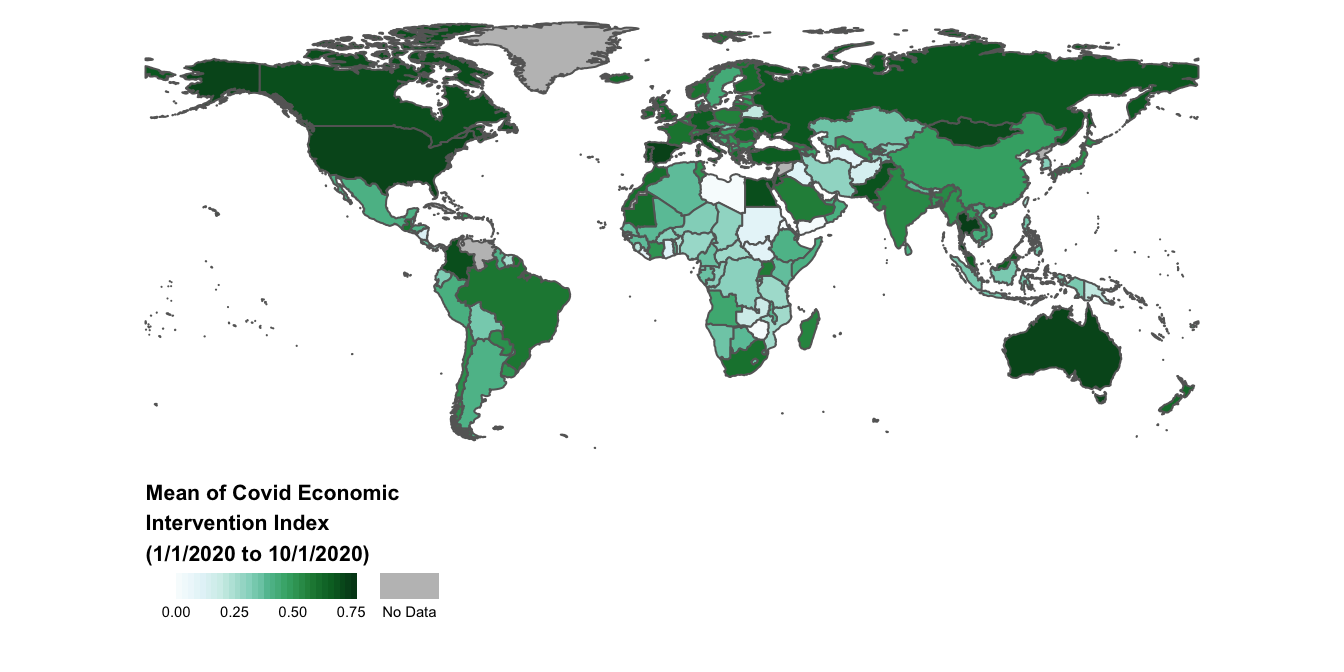
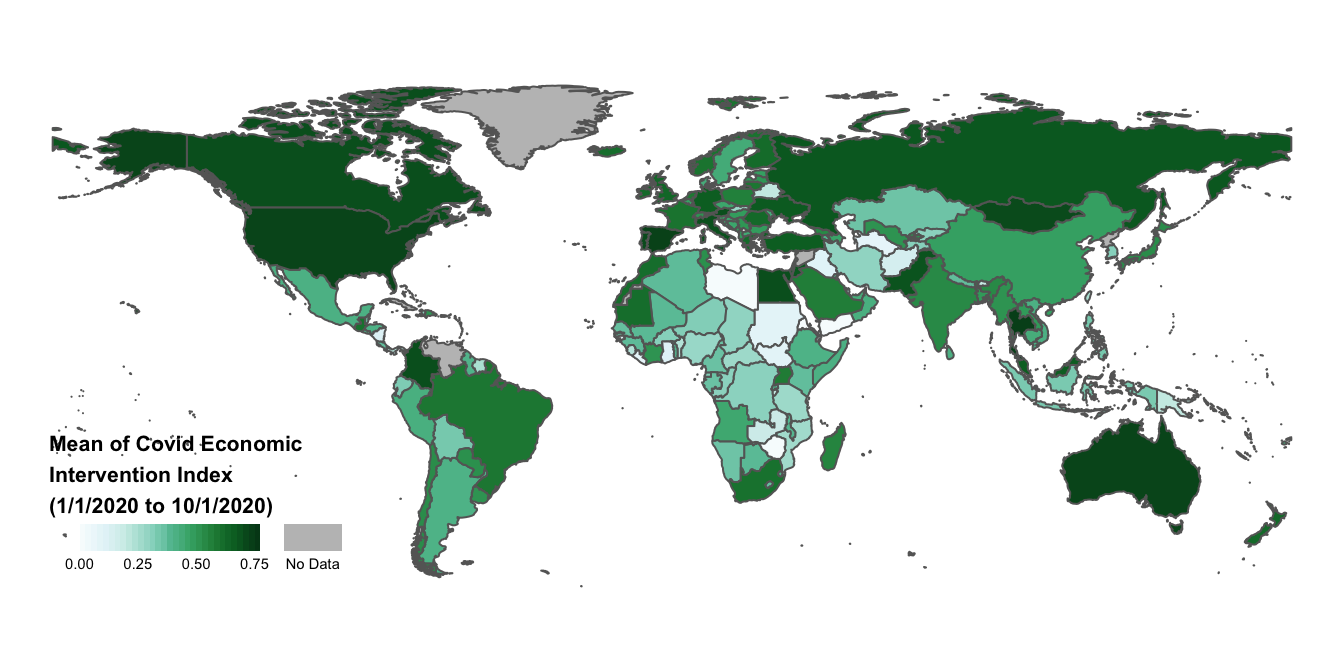
adds summary code

diff --git a/docs/tutorial.html b/docs/tutorial.html
@@ -176,8 +176,7 @@ code span.wa { color: #60a0b0; font-weight: bold; font-style: italic; } /* Warni
 <ul>
 <li class="chapter" data-level="4.5.1" data-path="tutorial.html"><a href="tutorial.html#make-a-preliminary-map"><i class="fa fa-check"></i><b>4.5.1</b> Make a Preliminary Map</a></li>
 <li class="chapter" data-level="4.5.2" data-path="tutorial.html"><a href="tutorial.html#customize-legend"><i class="fa fa-check"></i><b>4.5.2</b> Customize Legend</a></li>
-<li class="chapter" data-level="4.5.3" data-path="tutorial.html"><a href="tutorial.html#add-map-title"><i class="fa fa-check"></i><b>4.5.3</b> Add Map Title</a></li>
-<li class="chapter" data-level="4.5.4" data-path="tutorial.html"><a href="tutorial.html#add-map-credits"><i class="fa fa-check"></i><b>4.5.4</b> Add Map Credits</a></li>
+<li class="chapter" data-level="4.5.3" data-path="tutorial.html"><a href="tutorial.html#add-map-title-and-credits"><i class="fa fa-check"></i><b>4.5.3</b> Add Map Title and Credits</a></li>
 </ul></li>
 <li class="chapter" data-level="4.6" data-path="tutorial.html"><a href="tutorial.html#export-your-map"><i class="fa fa-check"></i><b>4.6</b> Export Your Map</a></li>
 <li class="chapter" data-level="4.7" data-path="tutorial.html"><a href="tutorial.html#make-a-web-map"><i class="fa fa-check"></i><b>4.7</b> Make a Web Map</a></li>
@@ -489,13 +488,20 @@ The <code>tm_polygons</code> function can take a variety of arguments that can h
 </ul>
 <p>The following code incorporates these changes into the previous map:</p>
 <div class="sourceCode" id="cb41"><pre class="sourceCode r"><code class="sourceCode r"><span id="cb41-1"><a href="tutorial.html#cb41-1" aria-hidden="true" tabindex="-1"></a>covid_economic_map<span class="ot">&lt;-</span> <span class="fu">tm_shape</span>(worldmap_covid_data_economic)<span class="sc">+</span></span>
-<span id="cb41-2"><a href="tutorial.html#cb41-2" aria-hidden="true" tabindex="-1"></a>                      <span class="fu">tm_polygons</span>(<span class="at">col=</span><span class="st">&quot;mean_economic&quot;</span>, <span class="at">style=</span><span class="st">&quot;cont&quot;</span>, <span class="at">palette=</span><span class="st">&quot;BuGn&quot;</span>, <span class="at">textNA=</span><span class="st">&quot;No Data&quot;</span>, </span>
-<span id="cb41-3"><a href="tutorial.html#cb41-3" aria-hidden="true" tabindex="-1"></a>                                  <span class="at">title=</span><span class="st">&quot;Mean of Covid Economic</span><span class="sc">\n</span><span class="st">Intervention Index</span><span class="sc">\n</span><span class="st">(1/1/2020 to 10/1/2020)&quot;</span>, </span>
-<span id="cb41-4"><a href="tutorial.html#cb41-4" aria-hidden="true" tabindex="-1"></a>                                  <span class="at">legend.is.portrait=</span><span class="cn">FALSE</span>,<span class="at">breaks=</span><span class="fu">c</span>(<span class="dv">0</span>,<span class="fl">0.25</span>,<span class="fl">0.5</span>, <span class="fl">0.75</span>))<span class="sc">+</span></span>
-<span id="cb41-5"><a href="tutorial.html#cb41-5" aria-hidden="true" tabindex="-1"></a>                      <span class="fu">tm_layout</span>(<span class="at">legend.title.size=</span><span class="fl">0.8</span>, <span class="at">legend.title.fontface=</span><span class="dv">2</span>,<span class="at">legend.outside=</span><span class="cn">TRUE</span>, </span>
-<span id="cb41-6"><a href="tutorial.html#cb41-6" aria-hidden="true" tabindex="-1"></a>                                <span class="at">legend.outside.position =</span> <span class="fu">c</span>(<span class="st">&quot;bottom&quot;</span>), <span class="at">frame=</span><span class="cn">FALSE</span>, <span class="at">legend.text.size =</span> <span class="fl">0.5</span>,</span>
-<span id="cb41-7"><a href="tutorial.html#cb41-7" aria-hidden="true" tabindex="-1"></a>                                <span class="at">legend.hist.size =</span> <span class="fl">0.5</span>)</span>
-<span id="cb41-8"><a href="tutorial.html#cb41-8" aria-hidden="true" tabindex="-1"></a>covid_economic_map</span></code></pre></div>
+<span id="cb41-2"><a href="tutorial.html#cb41-2" aria-hidden="true" tabindex="-1"></a>                      <span class="fu">tm_polygons</span>(<span class="at">col=</span><span class="st">&quot;mean_economic&quot;</span>, </span>
+<span id="cb41-3"><a href="tutorial.html#cb41-3" aria-hidden="true" tabindex="-1"></a>                                  <span class="at">style=</span><span class="st">&quot;cont&quot;</span>, </span>
+<span id="cb41-4"><a href="tutorial.html#cb41-4" aria-hidden="true" tabindex="-1"></a>                                  <span class="at">palette=</span><span class="st">&quot;BuGn&quot;</span>, </span>
+<span id="cb41-5"><a href="tutorial.html#cb41-5" aria-hidden="true" tabindex="-1"></a>                                  <span class="at">textNA=</span><span class="st">&quot;No Data&quot;</span>, </span>
+<span id="cb41-6"><a href="tutorial.html#cb41-6" aria-hidden="true" tabindex="-1"></a>                                  <span class="at">title=</span><span class="st">&quot;Mean of Covid Economic</span><span class="sc">\n</span><span class="st">Intervention Index</span><span class="sc">\n</span><span class="st">(1/1/2020 to 10/1/2020)&quot;</span>, </span>
+<span id="cb41-7"><a href="tutorial.html#cb41-7" aria-hidden="true" tabindex="-1"></a>                                  <span class="at">legend.is.portrait=</span><span class="cn">FALSE</span>,</span>
+<span id="cb41-8"><a href="tutorial.html#cb41-8" aria-hidden="true" tabindex="-1"></a>                                  <span class="at">breaks=</span><span class="fu">c</span>(<span class="dv">0</span>,<span class="fl">0.25</span>,<span class="fl">0.5</span>, <span class="fl">0.75</span>))<span class="sc">+</span></span>
+<span id="cb41-9"><a href="tutorial.html#cb41-9" aria-hidden="true" tabindex="-1"></a>                      <span class="fu">tm_layout</span>(<span class="at">legend.title.size=</span><span class="fl">0.8</span>, </span>
+<span id="cb41-10"><a href="tutorial.html#cb41-10" aria-hidden="true" tabindex="-1"></a>                                <span class="at">legend.title.fontface=</span><span class="dv">2</span>,</span>
+<span id="cb41-11"><a href="tutorial.html#cb41-11" aria-hidden="true" tabindex="-1"></a>                                <span class="at">legend.position =</span> <span class="fu">c</span>(<span class="st">&quot;left&quot;</span>, <span class="st">&quot;bottom&quot;</span>), </span>
+<span id="cb41-12"><a href="tutorial.html#cb41-12" aria-hidden="true" tabindex="-1"></a>                                <span class="at">frame=</span><span class="cn">FALSE</span>, </span>
+<span id="cb41-13"><a href="tutorial.html#cb41-13" aria-hidden="true" tabindex="-1"></a>                                <span class="at">legend.text.size =</span> <span class="fl">0.5</span>,</span>
+<span id="cb41-14"><a href="tutorial.html#cb41-14" aria-hidden="true" tabindex="-1"></a>                                <span class="at">legend.hist.size =</span> <span class="fl">0.5</span>)</span>
+<span id="cb41-15"><a href="tutorial.html#cb41-15" aria-hidden="true" tabindex="-1"></a>covid_economic_map</span></code></pre></div>
 <p><img src="bookdownproj_files/figure-html/unnamed-chunk-50-1.png" width="672" /></p>
 <p>Let’s unpack this code; for the sake of completeness, we’ll go over all of the functions and arguments, rather than just the code that implements the changes mentioned above.</p>
 <p>Above, to the right of the assignment operator, we have:</p>
@@ -515,26 +521,50 @@ The <code>tm_polygons</code> function can take a variety of arguments that can h
 <ul>
 <li><code>legend.title.size=0.8</code> sets the size of the text in the legend’s title</li>
 <li><code>legend.title.fontface=2</code> makes the legend title bold.</li>
-<li><code>legend.outside=True</code> situates the legend outside the map frame. Because the map frame is invisible (since we set <code>legend.outside=TRUE</code>), the practical effect of this is to shift the legend outside the map area. In particular, it shifts it below the map area because of the <code>legend.outside.position = c("bottom")</code> argument.</li>
+<li><code>legend.position = c("left", "bottom")</code> positions the legend at the bottom-left of the map</li>
+<li><code>frame=FALSE</code> removes the frame from the map</li>
 <li><code>legend.text.size=0.5</code> specifies the size of the legend text that is not part of the legend title</li>
 <li><code>legend.hist.size=0.5</code> specifies the size of the graphical part of the legend</li>
 </ul></li>
 </ul>
 <p>The best way to get a sense of how all of these various arguments work is to try changing the values of the arguments and inspect their effect on the map’s appearance.</p>
 </div>
-<div id="add-map-title" class="section level3" number="4.5.3">
-<h3><span class="header-section-number">4.5.3</span> Add Map Title</h3>
-<p>One useful thing to keep in mind is that when adding new elements to our map, it’s not necessary to retype all of our code; thus far, that is what we’ve been doing, but it’s also possible to simply append changes to the existing object. Below, to the right of the assignment operator, we first print the name of the object we want to modify (i.e. “covid_economic_map”) and then type a “+” sign; then, we can modify the object as desired. In particular, we want to add a map title, which we will do by passing</p>
+<div id="add-map-title-and-credits" class="section level3" number="4.5.3">
+<h3><span class="header-section-number">4.5.3</span> Add Map Title and Credits</h3>
+<p>One useful thing to keep in mind is that when adding new elements to our map, it’s not necessary to retype all of our code; thus far, that is what we’ve been doing, but it’s also possible to simply append changes to the existing object. Below, to the right of the assignment operator, we first print the name of the object we want to modify (i.e. “covid_economic_map”) and then type a “+” sign; then, we can modify the object as desired. In particular, we want to add and customize a map title (which we will do by passing a few additional arguments through the now familiar <code>tm_layout</code> function), as well as add and customize a “Map Credits” section, which will include some basic map metadata.</p>
 <div class="sourceCode" id="cb42"><pre class="sourceCode r"><code class="sourceCode r"><span id="cb42-1"><a href="tutorial.html#cb42-1" aria-hidden="true" tabindex="-1"></a>covid_economic_map<span class="ot">&lt;-</span>covid_economic_map<span class="sc">+</span></span>
 <span id="cb42-2"><a href="tutorial.html#cb42-2" aria-hidden="true" tabindex="-1"></a>                       <span class="fu">tm_layout</span>(<span class="at">main.title=</span><span class="st">&quot;National Economic Support Measures</span><span class="sc">\n</span><span class="st">in Response to the Covid-19 Pandemic&quot;</span>, </span>
-<span id="cb42-3"><a href="tutorial.html#cb42-3" aria-hidden="true" tabindex="-1"></a>                                 <span class="at">main.title.position=</span><span class="st">&quot;center&quot;</span>, <span class="at">attr.outside=</span><span class="cn">TRUE</span>,</span>
-<span id="cb42-4"><a href="tutorial.html#cb42-4" aria-hidden="true" tabindex="-1"></a>                                 <span class="at">main.title.size=</span><span class="dv">1</span>, <span class="at">inner.margins=</span><span class="fu">c</span>(<span class="fl">0.06</span>,<span class="fl">0.10</span>,<span class="fl">0.10</span>,<span class="fl">0.08</span>))</span>
-<span id="cb42-5"><a href="tutorial.html#cb42-5" aria-hidden="true" tabindex="-1"></a>covid_economic_map </span></code></pre></div>
-<p><img src="bookdownproj_files/figure-html/unnamed-chunk-51-1.png" width="672" /></p>
-<p>covid_economic_map&lt;-covid_economic_map+</p>
-</div>
-<div id="add-map-credits" class="section level3" number="4.5.4">
-<h3><span class="header-section-number">4.5.4</span> Add Map Credits</h3>
+<span id="cb42-3"><a href="tutorial.html#cb42-3" aria-hidden="true" tabindex="-1"></a>                                 <span class="at">main.title.position=</span><span class="st">&quot;center&quot;</span>,</span>
+<span id="cb42-4"><a href="tutorial.html#cb42-4" aria-hidden="true" tabindex="-1"></a>                                 <span class="at">main.title.size=</span><span class="dv">1</span>, <span class="at">inner.margins=</span><span class="fu">c</span>(<span class="fl">0.06</span>,<span class="fl">0.10</span>,<span class="fl">0.10</span>,<span class="fl">0.08</span>), </span>
+<span id="cb42-5"><a href="tutorial.html#cb42-5" aria-hidden="true" tabindex="-1"></a>                                 <span class="at">attr.outside =</span> <span class="cn">TRUE</span>)<span class="sc">+</span></span>
+<span id="cb42-6"><a href="tutorial.html#cb42-6" aria-hidden="true" tabindex="-1"></a>                        <span class="fu">tm_credits</span>(<span class="st">&quot;Author: Aditya Ranganath</span><span class="sc">\n</span><span class="st">CRS: WGS1984</span><span class="sc">\n</span><span class="st">Source: ICPSR (https://doi.org/10.3886/E119061V6)&quot;</span>, </span>
+<span id="cb42-7"><a href="tutorial.html#cb42-7" aria-hidden="true" tabindex="-1"></a>                                   <span class="at">position=</span><span class="fu">c</span>(<span class="fl">0.78</span>,<span class="fl">0.01</span>), <span class="at">size=</span><span class="fl">0.5</span>)</span>
+<span id="cb42-8"><a href="tutorial.html#cb42-8" aria-hidden="true" tabindex="-1"></a>  </span>
+<span id="cb42-9"><a href="tutorial.html#cb42-9" aria-hidden="true" tabindex="-1"></a>covid_economic_map </span></code></pre></div>
+<p><img src="bookdownproj_files/figure-html/unnamed-chunk-51-1.png" width="864" /></p>
+<div class="sourceCode" id="cb43"><pre class="sourceCode r"><code class="sourceCode r"><span id="cb43-1"><a href="tutorial.html#cb43-1" aria-hidden="true" tabindex="-1"></a>covid_economic_map<span class="ot">&lt;-</span> <span class="fu">tm_shape</span>(worldmap_covid_data_economic)<span class="sc">+</span></span>
+<span id="cb43-2"><a href="tutorial.html#cb43-2" aria-hidden="true" tabindex="-1"></a>                      <span class="fu">tm_polygons</span>(<span class="at">col=</span><span class="st">&quot;mean_economic&quot;</span>, </span>
+<span id="cb43-3"><a href="tutorial.html#cb43-3" aria-hidden="true" tabindex="-1"></a>                                  <span class="at">style=</span><span class="st">&quot;cont&quot;</span>, </span>
+<span id="cb43-4"><a href="tutorial.html#cb43-4" aria-hidden="true" tabindex="-1"></a>                                  <span class="at">palette=</span><span class="st">&quot;BuGn&quot;</span>, </span>
+<span id="cb43-5"><a href="tutorial.html#cb43-5" aria-hidden="true" tabindex="-1"></a>                                  <span class="at">textNA=</span><span class="st">&quot;No Data&quot;</span>, </span>
+<span id="cb43-6"><a href="tutorial.html#cb43-6" aria-hidden="true" tabindex="-1"></a>                                  <span class="at">title=</span><span class="st">&quot;Mean of Covid Economic</span><span class="sc">\n</span><span class="st">Intervention Index</span><span class="sc">\n</span><span class="st">(1/1/2020 to 10/1/2020)&quot;</span>, </span>
+<span id="cb43-7"><a href="tutorial.html#cb43-7" aria-hidden="true" tabindex="-1"></a>                                  <span class="at">legend.is.portrait=</span><span class="cn">FALSE</span>,</span>
+<span id="cb43-8"><a href="tutorial.html#cb43-8" aria-hidden="true" tabindex="-1"></a>                                  <span class="at">breaks=</span><span class="fu">c</span>(<span class="dv">0</span>,<span class="fl">0.25</span>,<span class="fl">0.5</span>, <span class="fl">0.75</span>))<span class="sc">+</span></span>
+<span id="cb43-9"><a href="tutorial.html#cb43-9" aria-hidden="true" tabindex="-1"></a>                        <span class="fu">tm_layout</span>(<span class="at">legend.title.size=</span><span class="fl">0.8</span>, </span>
+<span id="cb43-10"><a href="tutorial.html#cb43-10" aria-hidden="true" tabindex="-1"></a>                                  <span class="at">legend.title.fontface=</span><span class="dv">2</span>,</span>
+<span id="cb43-11"><a href="tutorial.html#cb43-11" aria-hidden="true" tabindex="-1"></a>                                  <span class="at">legend.position =</span> <span class="fu">c</span>(<span class="st">&quot;left&quot;</span>, <span class="st">&quot;bottom&quot;</span>), </span>
+<span id="cb43-12"><a href="tutorial.html#cb43-12" aria-hidden="true" tabindex="-1"></a>                                  <span class="at">frame=</span><span class="cn">FALSE</span>, </span>
+<span id="cb43-13"><a href="tutorial.html#cb43-13" aria-hidden="true" tabindex="-1"></a>                                  <span class="at">legend.text.size =</span> <span class="fl">0.5</span>,</span>
+<span id="cb43-14"><a href="tutorial.html#cb43-14" aria-hidden="true" tabindex="-1"></a>                                  <span class="at">legend.hist.size =</span> <span class="fl">0.5</span>,</span>
+<span id="cb43-15"><a href="tutorial.html#cb43-15" aria-hidden="true" tabindex="-1"></a>                                  <span class="at">main.title=</span><span class="st">&quot;National Economic Support Measures</span><span class="sc">\n</span><span class="st">in Response to the Covid-19 Pandemic&quot;</span>, </span>
+<span id="cb43-16"><a href="tutorial.html#cb43-16" aria-hidden="true" tabindex="-1"></a>                                 <span class="at">main.title.position=</span><span class="st">&quot;center&quot;</span>,</span>
+<span id="cb43-17"><a href="tutorial.html#cb43-17" aria-hidden="true" tabindex="-1"></a>                                 <span class="at">main.title.size=</span><span class="dv">1</span>, <span class="at">inner.margins=</span><span class="fu">c</span>(<span class="fl">0.06</span>,<span class="fl">0.10</span>,<span class="fl">0.10</span>,<span class="fl">0.08</span>), </span>
+<span id="cb43-18"><a href="tutorial.html#cb43-18" aria-hidden="true" tabindex="-1"></a>                                 <span class="at">attr.outside =</span> <span class="cn">TRUE</span>)<span class="sc">+</span></span>
+<span id="cb43-19"><a href="tutorial.html#cb43-19" aria-hidden="true" tabindex="-1"></a>                    <span class="fu">tm_credits</span>(<span class="st">&quot;Author: Aditya Ranganath</span><span class="sc">\n</span><span class="st">CRS: WGS1984</span><span class="sc">\n</span><span class="st">Source: ICPSR (https://doi.org/10.3886/E119061V6)&quot;</span>, </span>
+<span id="cb43-20"><a href="tutorial.html#cb43-20" aria-hidden="true" tabindex="-1"></a>                                 <span class="at">position=</span><span class="fu">c</span>(<span class="fl">0.78</span>,<span class="fl">0.01</span>), </span>
+<span id="cb43-21"><a href="tutorial.html#cb43-21" aria-hidden="true" tabindex="-1"></a>                                 <span class="at">size=</span><span class="fl">0.5</span>)</span>
+<span id="cb43-22"><a href="tutorial.html#cb43-22" aria-hidden="true" tabindex="-1"></a>covid_economic_map</span></code></pre></div>
+<p><img src="bookdownproj_files/figure-html/unnamed-chunk-52-1.png" width="672" /></p>
 </div>
 </div>
 <div id="export-your-map" class="section level2" number="4.6">

diff --git a/docs/404.html b/docs/404.html
@@ -176,8 +176,7 @@ code span.wa { color: #60a0b0; font-weight: bold; font-style: italic; } /* Warni
 <ul>
 <li class="chapter" data-level="4.5.1" data-path="tutorial.html"><a href="tutorial.html#make-a-preliminary-map"><i class="fa fa-check"></i><b>4.5.1</b> Make a Preliminary Map</a></li>
 <li class="chapter" data-level="4.5.2" data-path="tutorial.html"><a href="tutorial.html#customize-legend"><i class="fa fa-check"></i><b>4.5.2</b> Customize Legend</a></li>
-<li class="chapter" data-level="4.5.3" data-path="tutorial.html"><a href="tutorial.html#add-map-title"><i class="fa fa-check"></i><b>4.5.3</b> Add Map Title</a></li>
-<li class="chapter" data-level="4.5.4" data-path="tutorial.html"><a href="tutorial.html#add-map-credits"><i class="fa fa-check"></i><b>4.5.4</b> Add Map Credits</a></li>
+<li class="chapter" data-level="4.5.3" data-path="tutorial.html"><a href="tutorial.html#add-map-title-and-credits"><i class="fa fa-check"></i><b>4.5.3</b> Add Map Title and Credits</a></li>
 </ul></li>
 <li class="chapter" data-level="4.6" data-path="tutorial.html"><a href="tutorial.html#export-your-map"><i class="fa fa-check"></i><b>4.6</b> Export Your Map</a></li>
 <li class="chapter" data-level="4.7" data-path="tutorial.html"><a href="tutorial.html#make-a-web-map"><i class="fa fa-check"></i><b>4.7</b> Make a Web Map</a></li>

diff --git a/docs/conclusion.html b/docs/conclusion.html
@@ -176,8 +176,7 @@ code span.wa { color: #60a0b0; font-weight: bold; font-style: italic; } /* Warni
 <ul>
 <li class="chapter" data-level="4.5.1" data-path="tutorial.html"><a href="tutorial.html#make-a-preliminary-map"><i class="fa fa-check"></i><b>4.5.1</b> Make a Preliminary Map</a></li>
 <li class="chapter" data-level="4.5.2" data-path="tutorial.html"><a href="tutorial.html#customize-legend"><i class="fa fa-check"></i><b>4.5.2</b> Customize Legend</a></li>
-<li class="chapter" data-level="4.5.3" data-path="tutorial.html"><a href="tutorial.html#add-map-title"><i class="fa fa-check"></i><b>4.5.3</b> Add Map Title</a></li>
-<li class="chapter" data-level="4.5.4" data-path="tutorial.html"><a href="tutorial.html#add-map-credits"><i class="fa fa-check"></i><b>4.5.4</b> Add Map Credits</a></li>
+<li class="chapter" data-level="4.5.3" data-path="tutorial.html"><a href="tutorial.html#add-map-title-and-credits"><i class="fa fa-check"></i><b>4.5.3</b> Add Map Title and Credits</a></li>
 </ul></li>
 <li class="chapter" data-level="4.6" data-path="tutorial.html"><a href="tutorial.html#export-your-map"><i class="fa fa-check"></i><b>4.6</b> Export Your Map</a></li>
 <li class="chapter" data-level="4.7" data-path="tutorial.html"><a href="tutorial.html#make-a-web-map"><i class="fa fa-check"></i><b>4.7</b> Make a Web Map</a></li>

diff --git a/docs/index.html b/docs/index.html
@@ -176,8 +176,7 @@ code span.wa { color: #60a0b0; font-weight: bold; font-style: italic; } /* Warni
 <ul>
 <li class="chapter" data-level="4.5.1" data-path="tutorial.html"><a href="tutorial.html#make-a-preliminary-map"><i class="fa fa-check"></i><b>4.5.1</b> Make a Preliminary Map</a></li>
 <li class="chapter" data-level="4.5.2" data-path="tutorial.html"><a href="tutorial.html#customize-legend"><i class="fa fa-check"></i><b>4.5.2</b> Customize Legend</a></li>
-<li class="chapter" data-level="4.5.3" data-path="tutorial.html"><a href="tutorial.html#add-map-title"><i class="fa fa-check"></i><b>4.5.3</b> Add Map Title</a></li>
-<li class="chapter" data-level="4.5.4" data-path="tutorial.html"><a href="tutorial.html#add-map-credits"><i class="fa fa-check"></i><b>4.5.4</b> Add Map Credits</a></li>
+<li class="chapter" data-level="4.5.3" data-path="tutorial.html"><a href="tutorial.html#add-map-title-and-credits"><i class="fa fa-check"></i><b>4.5.3</b> Add Map Title and Credits</a></li>
 </ul></li>
 <li class="chapter" data-level="4.6" data-path="tutorial.html"><a href="tutorial.html#export-your-map"><i class="fa fa-check"></i><b>4.6</b> Export Your Map</a></li>
 <li class="chapter" data-level="4.7" data-path="tutorial.html"><a href="tutorial.html#make-a-web-map"><i class="fa fa-check"></i><b>4.7</b> Make a Web Map</a></li>

diff --git a/docs/introduction.html b/docs/introduction.html
@@ -176,8 +176,7 @@ code span.wa { color: #60a0b0; font-weight: bold; font-style: italic; } /* Warni
 <ul>
 <li class="chapter" data-level="4.5.1" data-path="tutorial.html"><a href="tutorial.html#make-a-preliminary-map"><i class="fa fa-check"></i><b>4.5.1</b> Make a Preliminary Map</a></li>
 <li class="chapter" data-level="4.5.2" data-path="tutorial.html"><a href="tutorial.html#customize-legend"><i class="fa fa-check"></i><b>4.5.2</b> Customize Legend</a></li>
-<li class="chapter" data-level="4.5.3" data-path="tutorial.html"><a href="tutorial.html#add-map-title"><i class="fa fa-check"></i><b>4.5.3</b> Add Map Title</a></li>
-<li class="chapter" data-level="4.5.4" data-path="tutorial.html"><a href="tutorial.html#add-map-credits"><i class="fa fa-check"></i><b>4.5.4</b> Add Map Credits</a></li>
+<li class="chapter" data-level="4.5.3" data-path="tutorial.html"><a href="tutorial.html#add-map-title-and-credits"><i class="fa fa-check"></i><b>4.5.3</b> Add Map Title and Credits</a></li>
 </ul></li>
 <li class="chapter" data-level="4.6" data-path="tutorial.html"><a href="tutorial.html#export-your-map"><i class="fa fa-check"></i><b>4.6</b> Export Your Map</a></li>
 <li class="chapter" data-level="4.7" data-path="tutorial.html"><a href="tutorial.html#make-a-web-map"><i class="fa fa-check"></i><b>4.7</b> Make a Web Map</a></li>

diff --git a/docs/practice-and-challenge-exercises.html b/docs/practice-and-challenge-exercises.html
@@ -176,8 +176,7 @@ code span.wa { color: #60a0b0; font-weight: bold; font-style: italic; } /* Warni
 <ul>
 <li class="chapter" data-level="4.5.1" data-path="tutorial.html"><a href="tutorial.html#make-a-preliminary-map"><i class="fa fa-check"></i><b>4.5.1</b> Make a Preliminary Map</a></li>
 <li class="chapter" data-level="4.5.2" data-path="tutorial.html"><a href="tutorial.html#customize-legend"><i class="fa fa-check"></i><b>4.5.2</b> Customize Legend</a></li>
-<li class="chapter" data-level="4.5.3" data-path="tutorial.html"><a href="tutorial.html#add-map-title"><i class="fa fa-check"></i><b>4.5.3</b> Add Map Title</a></li>
-<li class="chapter" data-level="4.5.4" data-path="tutorial.html"><a href="tutorial.html#add-map-credits"><i class="fa fa-check"></i><b>4.5.4</b> Add Map Credits</a></li>
+<li class="chapter" data-level="4.5.3" data-path="tutorial.html"><a href="tutorial.html#add-map-title-and-credits"><i class="fa fa-check"></i><b>4.5.3</b> Add Map Title and Credits</a></li>
 </ul></li>
 <li class="chapter" data-level="4.6" data-path="tutorial.html"><a href="tutorial.html#export-your-map"><i class="fa fa-check"></i><b>4.6</b> Export Your Map</a></li>
 <li class="chapter" data-level="4.7" data-path="tutorial.html"><a href="tutorial.html#make-a-web-map"><i class="fa fa-check"></i><b>4.7</b> Make a Web Map</a></li>

diff --git a/docs/preliminaries-and-set-up.html b/docs/preliminaries-and-set-up.html
@@ -176,8 +176,7 @@ code span.wa { color: #60a0b0; font-weight: bold; font-style: italic; } /* Warni
 <ul>
 <li class="chapter" data-level="4.5.1" data-path="tutorial.html"><a href="tutorial.html#make-a-preliminary-map"><i class="fa fa-check"></i><b>4.5.1</b> Make a Preliminary Map</a></li>
 <li class="chapter" data-level="4.5.2" data-path="tutorial.html"><a href="tutorial.html#customize-legend"><i class="fa fa-check"></i><b>4.5.2</b> Customize Legend</a></li>
-<li class="chapter" data-level="4.5.3" data-path="tutorial.html"><a href="tutorial.html#add-map-title"><i class="fa fa-check"></i><b>4.5.3</b> Add Map Title</a></li>
-<li class="chapter" data-level="4.5.4" data-path="tutorial.html"><a href="tutorial.html#add-map-credits"><i class="fa fa-check"></i><b>4.5.4</b> Add Map Credits</a></li>
+<li class="chapter" data-level="4.5.3" data-path="tutorial.html"><a href="tutorial.html#add-map-title-and-credits"><i class="fa fa-check"></i><b>4.5.3</b> Add Map Title and Credits</a></li>
 </ul></li>
 <li class="chapter" data-level="4.6" data-path="tutorial.html"><a href="tutorial.html#export-your-map"><i class="fa fa-check"></i><b>4.6</b> Export Your Map</a></li>
 <li class="chapter" data-level="4.7" data-path="tutorial.html"><a href="tutorial.html#make-a-web-map"><i class="fa fa-check"></i><b>4.7</b> Make a Web Map</a></li>
